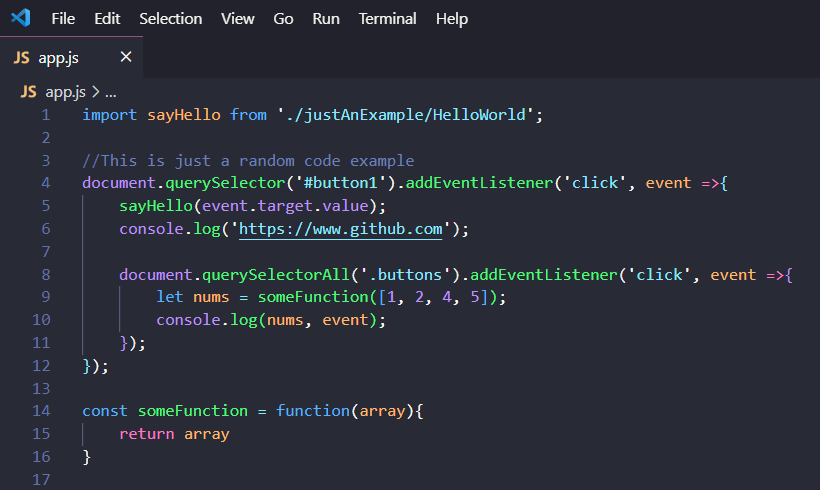
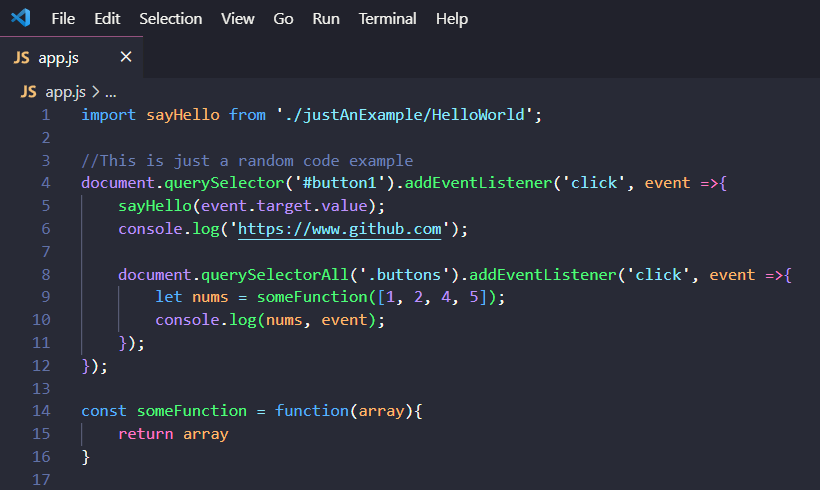
Version 1.13.0

diff --git a/CHANGELOG.md b/CHANGELOG.md
@@ -1,3 +1,6 @@
+### 1.13.0 (minor)
+- Screnshot updated.
+
 #### 1.12.1 (patch)
 - Small color improvement.
 
